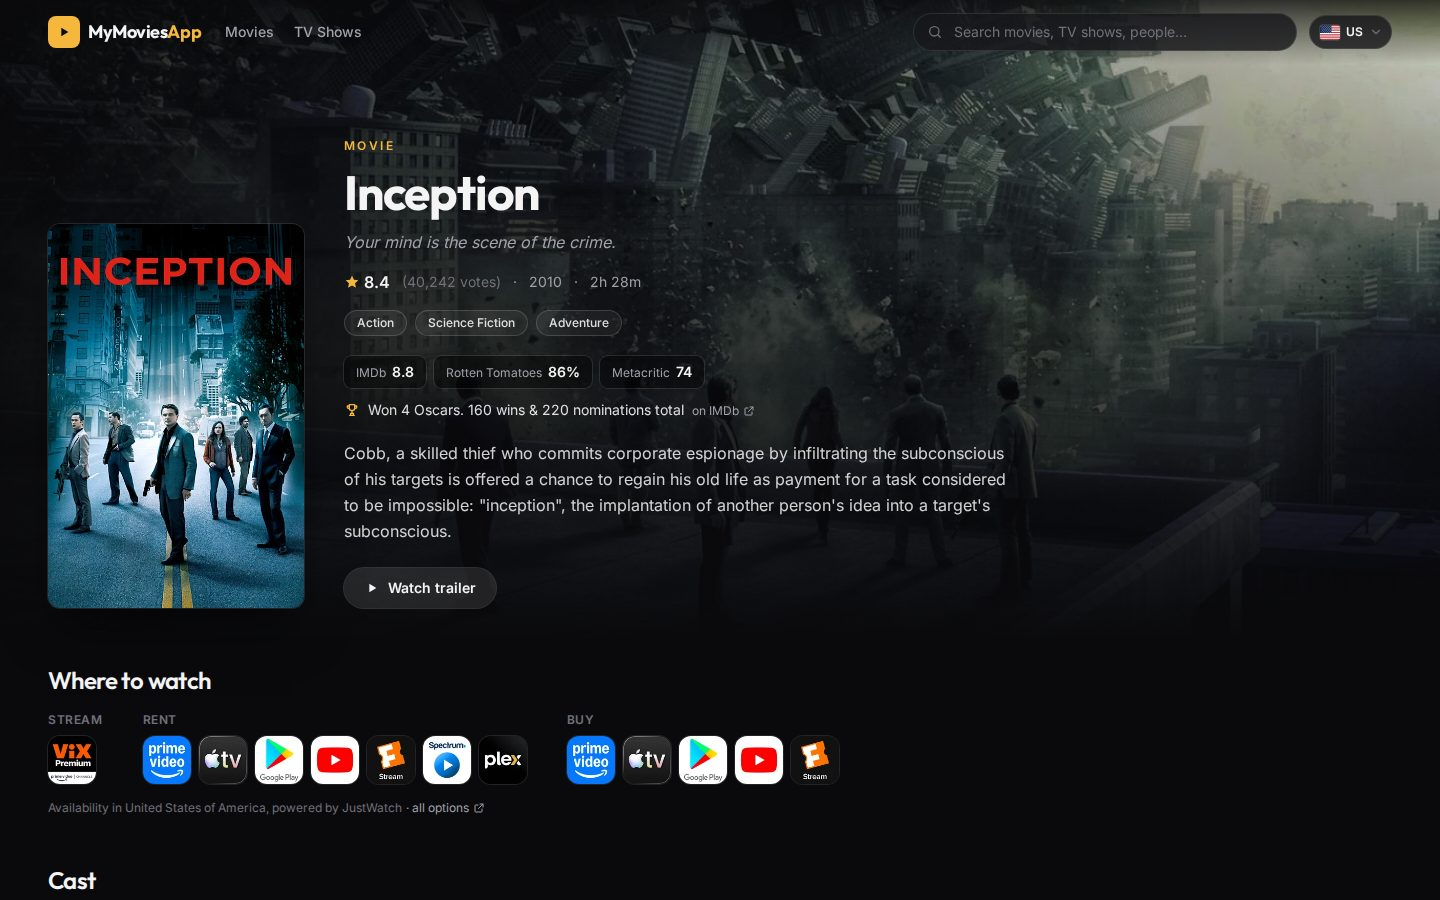
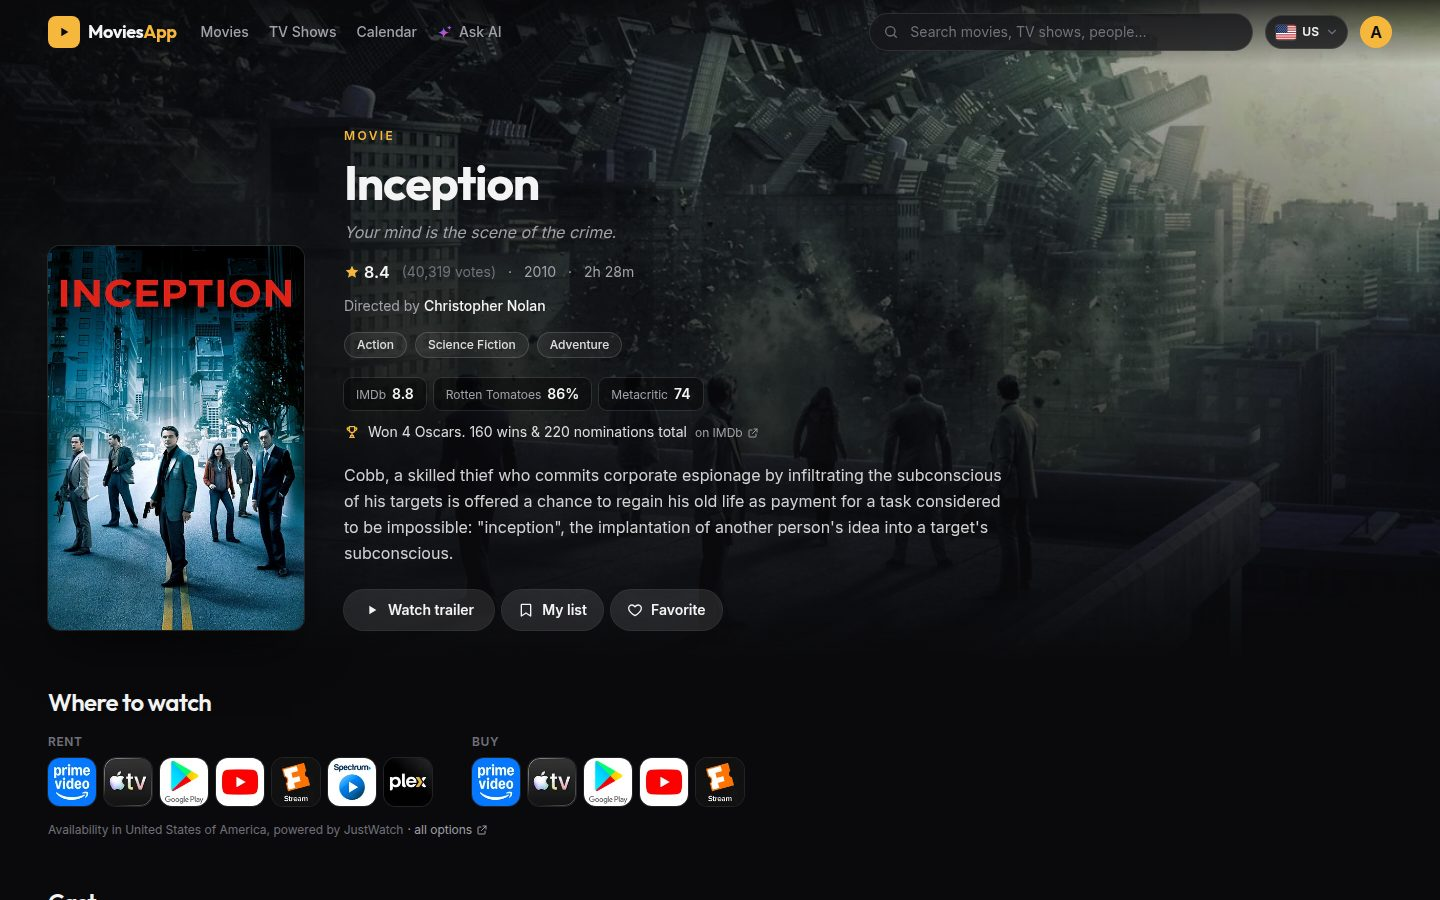
docs: refresh the README and screenshots
New name, the personal recommendations (AI picks, top picks, because you
liked), accounts in the stack and the architecture, and new screenshots of
the AI picks, the assistant and My list.

diff --git a/README.md b/README.md
@@ -1,6 +1,6 @@
 # 🎬 MoviesApp
 
-A streaming-style explorer for movies, TV shows and people, built on the TMDB API: see what's trending, filter by genre and by the services you can actually watch in your country, open trailers, check awards and critic scores, and ask an AI assistant what to watch tonight.
+A streaming-style explorer for movies, TV shows and people, built on the TMDB API: see what's trending, filter by genre and by the services you can actually watch in your country, open trailers, check awards and critic scores, ask an AI assistant what to watch tonight and, once signed in, get recommendations from your own favorites.
 
 **Live demo → [movies-app-swart-xi.vercel.app](https://movies-app-swart-xi.vercel.app)**
 
@@ -9,6 +9,12 @@ A streaming-style explorer for movies, TV shows and people, built on the TMDB AP
 ## ✨ Features
 
 - **Ask AI what to watch.** Describe a mood, a plot or a title you loved ("a short comedy on Netflix", "like Interstellar") and refine it in a chat ("more recent ones"). A Claude agent searches the catalog with the app's own API as tools, shows each step as it works, and only recommends real titles, each with why it fits and where to stream it in your country. It opens over any page from the navbar, the search box or the home page.
+- **Recommendations from your taste.** Signed in, the home page adds three rows built from your favorites and your list:
+  - **Picked for You by AI**: Claude reads your saved titles and picks eight it thinks you'd love, with a line on why. It runs on its own, without being asked, and is stored and reused: a new answer is only paid for when your lists change, at most once a day.
+  - **Top Picks for You**: TMDB's recommendations for your recent saves, ranked so that titles recommended by several of them come first. No AI, no cost.
+  - **Because You Liked…**: titles like one of your favorites, a different one on each visit.
+
+  The assistant knows your taste too: "something for tonight" leans towards what you like, and it never suggests what you already saved.
 - **My list and favorites (optional sign-in).** Sign in with Google to save titles to watch later and mark favorites, from any detail page or hover preview. Everything else works without an account.
 - **Browse like a streaming service.** Home rows for what's in theaters, coming soon, popular and top rated; plus Movies and TV Shows pages filtered by genre, sorted by popularity, rating or release date, and shareable through the URL.
 - **Where to watch, in your country.** The country is detected from the browser language (and can be changed with a flag picker). It drives the streaming, rent and buy options on each title, the "Streaming in…" filter (e.g. *comedies on Netflix in Colombia*) and local release dates. The logos of the main services (Netflix, Prime Video, Apple TV, Google Play, YouTube…) open a search for the title on that service.
@@ -24,14 +30,21 @@ A streaming-style explorer for movies, TV shows and people, built on the TMDB AP
 
 <table>
   <tr>
-    <td width="50%"><img src="docs/screenshots/hover-preview.jpg" alt="Hover preview card over a poster"><br><sub>Hover preview</sub></td>
+    <td width="50%"><img src="docs/screenshots/for-you.jpg" alt="AI picks and top picks from the user's favorites"><br><sub>Picked for you by AI, from your favorites</sub></td>
+    <td width="50%"><img src="docs/screenshots/assistant.jpg" alt="The AI assistant answering a request for a short comedy on Netflix"><br><sub>Ask AI: each pick with why and where to stream it</sub></td>
+  </tr>
+  <tr>
     <td width="50%"><img src="docs/screenshots/detail.jpg" alt="Inception detail page with scores, awards and where to watch"><br><sub>Detail page: scores, awards and where to watch</sub></td>
+    <td width="50%"><img src="docs/screenshots/hover-preview.jpg" alt="Hover preview card over a poster"><br><sub>Hover preview</sub></td>
   </tr>
   <tr>
     <td width="50%"><img src="docs/screenshots/browse.jpg" alt="Comedy movies on Netflix in the United States"><br><sub>Browse: comedies streaming on Netflix</sub></td>
-    <td width="50%">
-      <img src="docs/screenshots/mobile-home.jpg" alt="Home page on a phone" width="48%">
-      <img src="docs/screenshots/mobile-detail.jpg" alt="Breaking Bad on a phone" width="48%"><br><sub>Mobile</sub>
+    <td width="50%"><img src="docs/screenshots/my-list.jpg" alt="The user's favorites"><br><sub>My list and favorites</sub></td>
+  </tr>
+  <tr>
+    <td colspan="2" align="center">
+      <img src="docs/screenshots/mobile-home.jpg" alt="Home page on a phone" width="24%">
+      <img src="docs/screenshots/mobile-detail.jpg" alt="Breaking Bad on a phone" width="24%"><br><sub>Mobile</sub>
     </td>
   </tr>
 </table>
@@ -42,6 +55,7 @@ A streaming-style explorer for movies, TV shows and people, built on the TMDB AP
 |---|---|
 | **Frontend** | React 19, TypeScript, Vite 6, Tailwind CSS 4, TanStack Query, React Router 7 |
 | **Backend** | Python 3.12, FastAPI, httpx (async client with retries and a TTL cache), pydantic-settings |
+| **Accounts** | Google sign-in (OAuth code flow with PKCE, run by the backend), httpOnly session cookie, Postgres on [Neon](https://neon.tech) with SQLAlchemy 2 (async) and Alembic |
 | **Data** | [TMDB](https://www.themoviedb.org/) (titles, people, images, trailers; streaming data by JustWatch) and [OMDb](https://www.omdbapi.com/) (awards and critic scores) |
 | **AI** | Claude Haiku 4.5 through the Anthropic Python SDK: a hand-written tool-calling loop, answers streamed as Server-Sent Events |
 | **Testing** | Vitest + Testing Library, pytest + respx (no network in tests) |
@@ -57,13 +71,17 @@ flowchart LR
   A -->|cached| T[(TMDB API)]
   A -->|cached, optional| O[(OMDb API)]
   A -->|"tool calling, optional"| C[(Claude API)]
+  A -->|"accounts, optional"| D[(Postgres)]
+  A -->|"sign-in, optional"| G[(Google OAuth)]
 ```
 
 The browser only talks to this app: the frontend and the API share one domain, and the API keys never leave the backend. The backend normalises TMDB's movie/TV differences into one API and caches responses in memory. The same layout runs on Vercel (`vercel.json`) and locally with Docker (`docker-compose.yml`, nginx in front).
 
-The AI assistant is an agent loop in the backend (`backend/app/services/assistant.py`): Claude gets the request plus tools that wrap the backend's own TMDB services (discover with filters, search, similar titles, where to watch), calls them as needed and finishes with a structured list of picks, which the backend only accepts if a tool returned them. Follow-ups resend a compact recap of the conversation, since the model has no memory. Its cost is kept in check with per-visitor and site-wide limits, a cache for repeated questions and a small, fast model.
+The AI assistant is an agent loop in the backend (`backend/app/services/assistant.py`): Claude gets the request plus tools that wrap the backend's own TMDB services (discover with filters, search, similar titles, where to watch), calls them as needed and finishes with a structured list of picks, which the backend only accepts if a tool returned them. Follow-ups resend a compact recap of the conversation, since the model has no memory. For a signed-in user the backend also adds their newest saved titles to the request, so answers lean towards their taste. Its cost is kept in check with per-visitor and site-wide limits, a cache for repeated (anonymous) questions and a small, fast model.
 
-Security basics are in place on both: a Content Security Policy and related headers, per-IP rate limiting on the API, validated inputs and no secrets in the client or in the repo.
+The AI picks on the home page reuse the same agent with a fixed request (`backend/app/services/ai_picks.py`). Since nobody is waiting to pay for each one, the answer is stored per user with a fingerprint of their lists and country, and only remade when that changed and it is over a day old; reloading the page costs nothing.
+
+Security basics are in place on both: a Content Security Policy and related headers, per-IP rate limiting on the API, validated inputs, sessions in an httpOnly cookie (only a hash of the token is stored), same-origin checks on writes and no secrets in the client or in the repo.
 
 ## 🚀 Running locally
 
@@ -114,7 +132,7 @@ Every pull request runs all of the above plus a dependency audit and a Docker bu
 
 ### Evals for the AI assistant
 
-Unit tests use a fake Claude, so they check the code, not the quality of the recommendations. For that there are evals: about 20 real requests (by genre, by streaming service, "something like X", in Spanish, off-topic, prompt injection, a follow-up...) sent to the real Claude and TMDB, each scored against rules that describe a good answer, never exact titles, since catalogs change: *every pick is a horror movie, streams on Netflix, isn't the title it was compared to*. An optional LLM judge (`--judge`) scores what rules can't, like whether the reasons fit the request.
+Unit tests use a fake Claude, so they check the code, not the quality of the recommendations. For that there are evals: about 30 real requests (by genre, by streaming service, "something like X", in Spanish, off-topic, prompt injection, a follow-up, a signed-in user's taste, the home page's AI picks...) sent to the real Claude and TMDB, each scored against rules that describe a good answer, never exact titles, since catalogs change: *every pick is a horror movie, streams on Netflix, isn't the title it was compared to*. An optional LLM judge (`--judge`) scores what rules can't, like whether the reasons fit the request.
 
 ```bash
 # backend/, with ANTHROPIC_API_KEY in .env (~$0.20 per run, more with --judge)
@@ -130,7 +148,8 @@ Vercel deploys `main` to production and every other branch to a private preview.
 
 ## 🗺 Roadmap
 
-- **Personal recommendations:** a taste profile from favourites and 👍/👎 on the assistant's picks, and similar titles by embeddings.
+- **Group mode:** one recommendation for several people's tastes.
+- **Finer recommendations:** 👍/👎 on picks, and similar titles by embeddings (pgvector).
 
 ## 🙏 Credits
 
